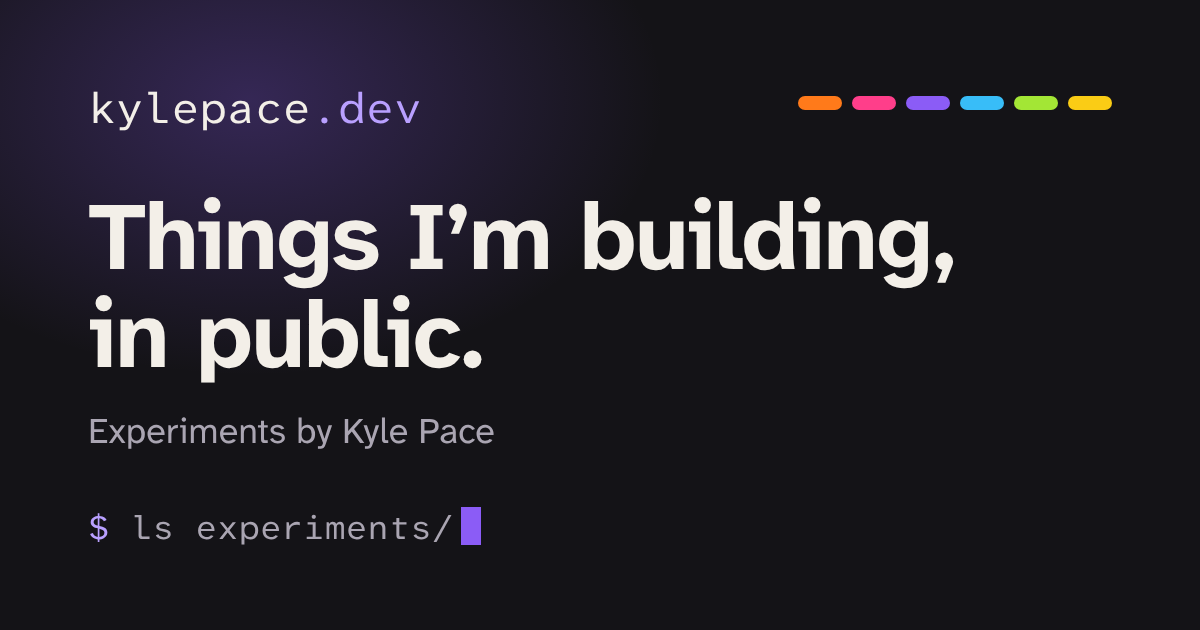
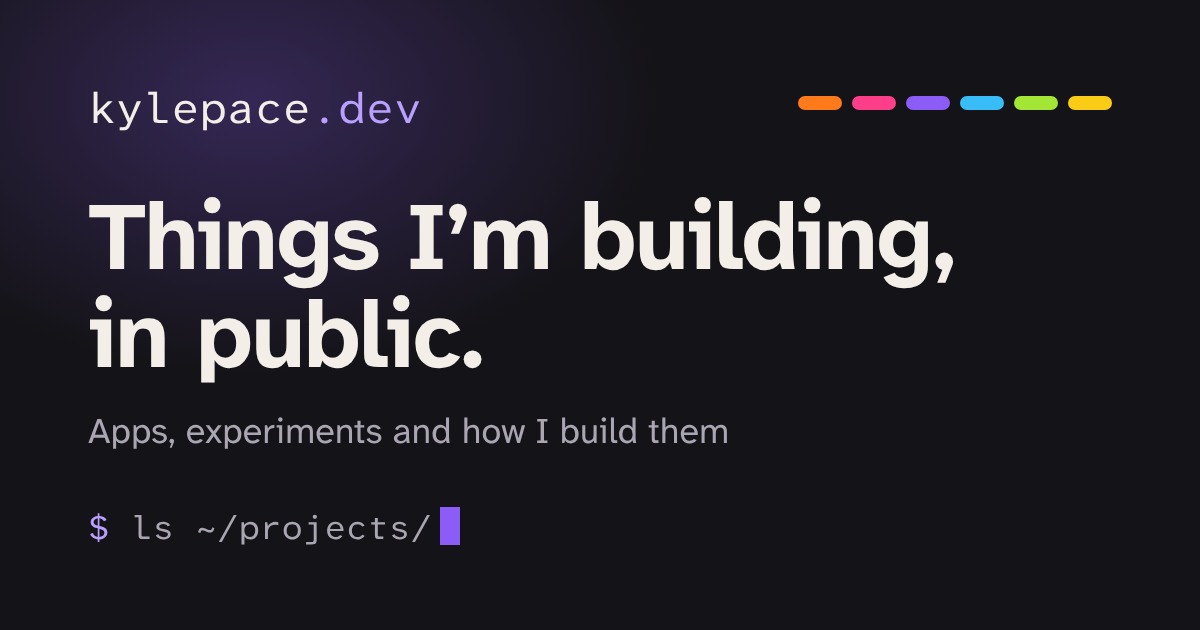
Broaden the home page beyond experiments
Intro covers everything built here; sections for Apps (compact cards linking
to /apps/), Labs (the experiments) and How I build, so new kinds of things get
their own section. New default share card copy.

Claude-Session: https://claude.ai/code/session_015KDcQELrGwwwqrVizEGSFV

Changed region(s): [[0.0617, 0.6635, 0.6167, 0.7238], [0.1542, 0.7841, 0.4008, 0.8746]]

diff --git a/design/og-default.html b/design/og-default.html
@@ -21,8 +21,8 @@ h1{margin:0;font-size:96px;line-height:1.02;letter-spacing:-0.02em;font-weight:7
   <div class="mark">kylepace<b>.dev</b></div>
   <div>
     <h1>Things I’m building, in public.</h1>
-    <p class="sub">Experiments by Kyle Pace</p>
+    <p class="sub">Apps, experiments and how I build them</p>
   </div>
-  <div class="prompt"><b>$</b> ls experiments/<span class="cursor"></span></div>
+  <div class="prompt"><b>$</b> ls ~/projects/<span class="cursor"></span></div>
 </div>
 </body></html>

diff --git a/AGENTS.md b/AGENTS.md
@@ -99,7 +99,7 @@ Kyle is a product leader building his development skills through this work. Trea
 
 ## This project
 
-kylepace.dev is the hub for Kyle's experiments: the home page that lists them, plus shared pages (privacy, accessibility, 404). It looks and feels like kylepace.net (same tokens, Atkinson type and display settings) with a few differences: its own nav (Labs, Apps, How I build) and no blog, notes or drafts. The header's name ("Kyle Pace") and `.net`/`.dev` site switch (kp-design's `sitesFor`) sit in the same place on both sites so swapping between them feels like one site.
+kylepace.dev is where Kyle's builds live: a home page with a section for each kind of thing (Apps, Labs, How I build, with more kinds to come), the Apps page, and shared pages (privacy, accessibility, 404). "Labs" are the experiments, each in its own repo. It looks and feels like kylepace.net (same tokens, Atkinson type and display settings) with a few differences: its own nav (Labs, Apps, How I build) and no blog, notes or drafts. The header's name ("Kyle Pace") and `.net`/`.dev` site switch (kp-design's `sitesFor`) sit in the same place on both sites so swapping between them feels like one site.
 
 - **Each experiment is its own repo and Cloudflare Worker**, not part of this one. It's mounted at `kylepace.dev/<slug>/` by a Worker route in its own `wrangler.jsonc`. This repo only lists it in `src/data/projects.ts`. README: "Adding a project".
 - This Worker (`kylepace-dev`) owns the domain as a Custom Domain. A route on a path wins over the Custom Domain, so adding a project never needs a change here beyond the list entry.
